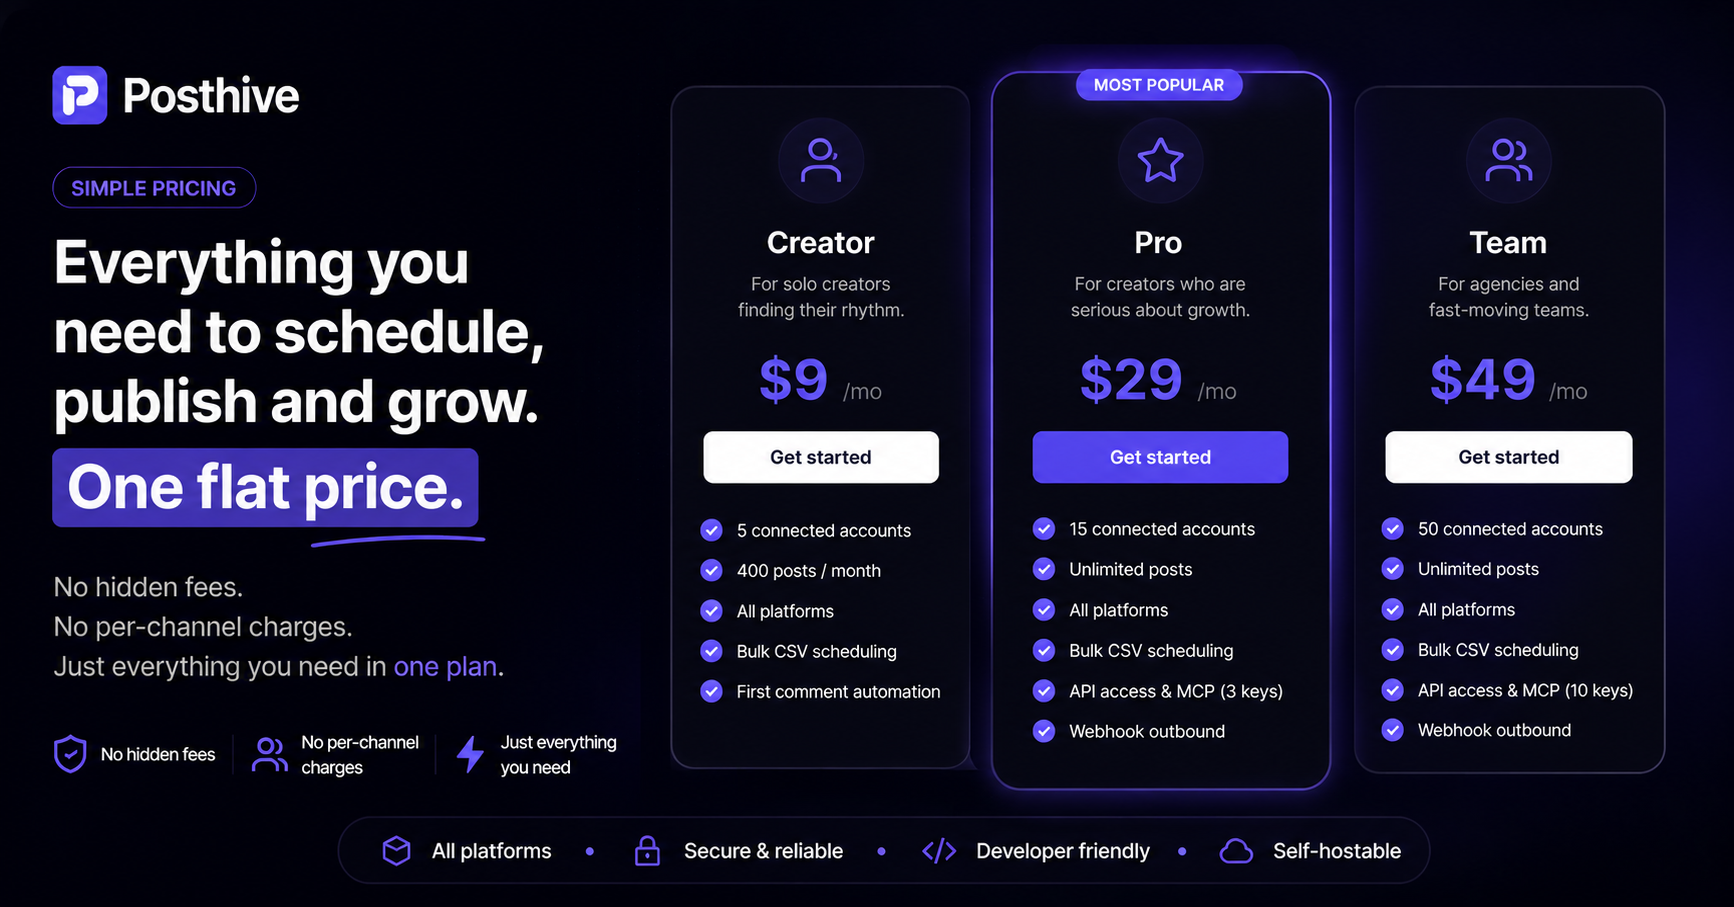
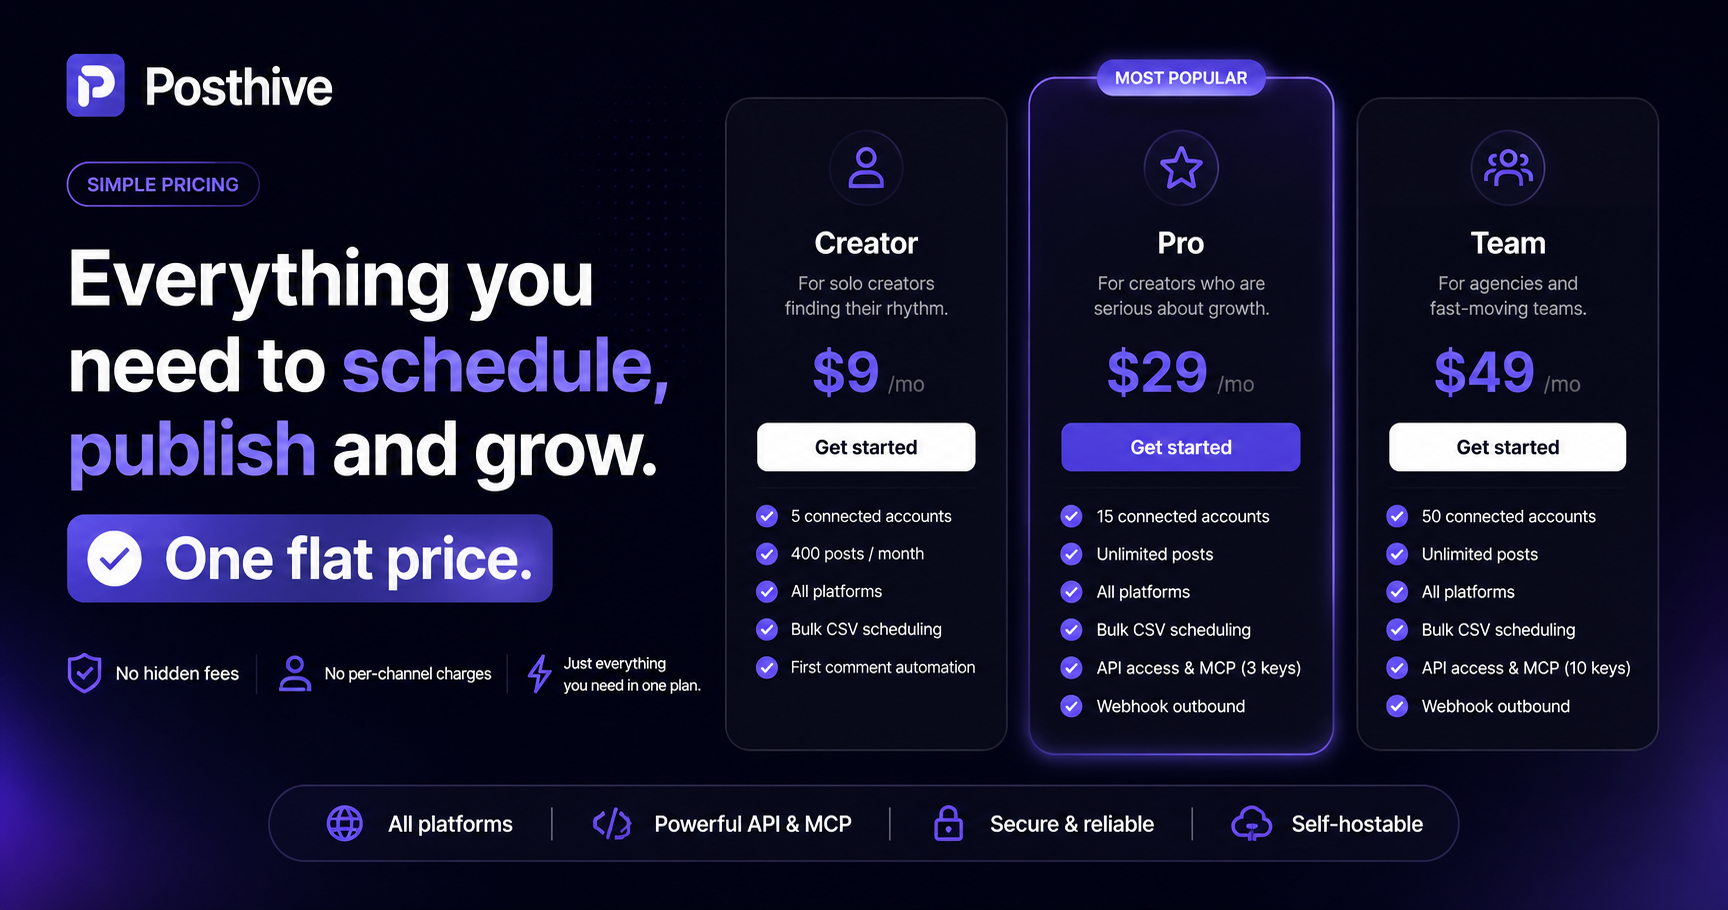
fix(og): again update pricing OG images with correct dimensions

diff --git a/apps/web/src/app/layout.tsx b/apps/web/src/app/layout.tsx
@@ -9,7 +9,7 @@ import { ToastProvider } from "../components/Toast";
 const OG_BASE = process.env.NEXT_PUBLIC_WEB_URL ?? "https://posthive.co";
 
 export const metadata: Metadata = {
-  title: { default: "Posthive — Open-source Social Media Scheduler", template: "%s | Posthive" },
+  title: { default: "Posthive - Agentic Social Media Scheduler", template: "%s | Posthive" },
   description: "Open-source social media scheduler for Bluesky, Threads, Instagram, LinkedIn, Mastodon, YouTube & more. Write once, post to 11 platforms. Self-hostable.",
   keywords: [
     "open source social media scheduler",
@@ -32,7 +32,7 @@ export const metadata: Metadata = {
   openGraph: {
     type: "website",
     siteName: "Posthive",
-    title: "Posthive — Open-source Social Media Scheduler",
+    title: "Posthive - Agentic Social Media Scheduler",
     description:
       "Schedule posts and first comments on Bluesky, Threads, Instagram, LinkedIn, Mastodon, YouTube, Facebook, Pinterest, Telegram & Nostr. Flat price. Self-host if you want.",
     images: [
@@ -46,7 +46,7 @@ export const metadata: Metadata = {
   },
   twitter: {
     card: "summary_large_image",
-    title: "Posthive — Open-source Social Media Scheduler",
+    title: "Posthive - Agentic Social Media Scheduler",
     description:
       "Schedule posts and first comments on Bluesky, Threads, Instagram, LinkedIn, Mastodon, YouTube, Facebook, Pinterest, Telegram & Nostr. Flat price. Self-host if you want.",
     images: ["/og/landingogimage.png"],